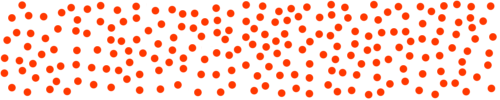
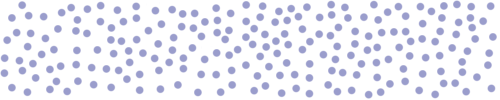
experimenting with bgs

diff --git a/public/index.html b/public/index.html
@@ -226,8 +226,11 @@
   <!-- close the relative -->
   <!-- </div> -->
 
-
-    <div id="editor-container" class="h-max" style="background-image: url('/img/backgroundanim.gif'); background-size: tile; background-position: center; background-blend-mode:difference; background-color: rgb(255, 255, 255);">
+    <!-- sprinkles bg -->
+    <!-- <div id="editor-container" class="h-max" style="background-image: url('/img/backgroundanim.gif'); background-size: tile; background-position: center; background-blend-mode:difference; background-color: rgb(255, 255, 255);"> -->
+    
+    <!-- stars bg -->
+    <div id="editor-container" class="h-max" style="background-image: url('/img/sparsebg.png'); background-size: tile; background-position: center;">
 
       <!-- <div id="quill-editor" class="ql-container ql-snow h-full">
         <div class="ql-editor" data-gramm="false" contenteditable="true" spellcheck="false"></div>
